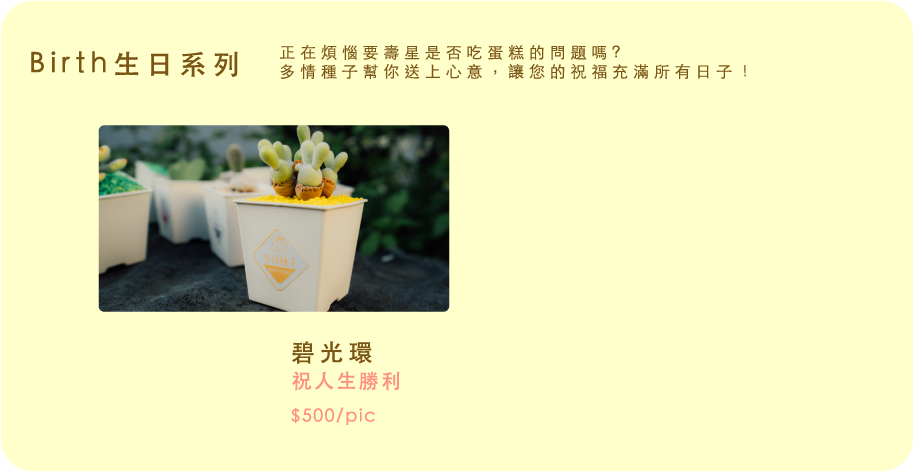
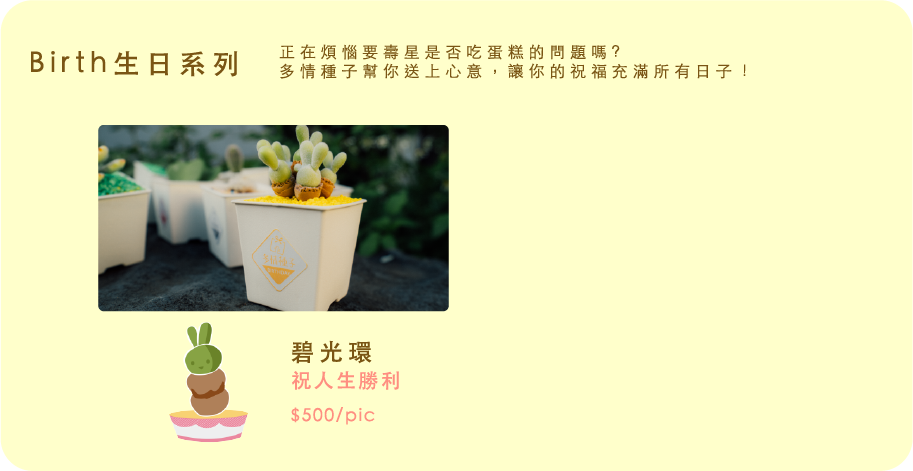
修改商品介紹錯誤頁及互動區

diff --git a/index.html b/index.html
@@ -381,7 +381,7 @@ _loading();
                  <img id="a5" src="images/a/a5.png">
                  <img id="a6" src="images/a/a6.png">
                  <img id="a7" src="images/a/a7.png">
-                 <div class="twice">CLICK TWICE</div>
+                 <div class="twice">將植物點擊兩下<br>CLICK TWICE</div>
               </div>
             </div>
             <div class="right">
@@ -460,10 +460,10 @@ _loading();
           <div class="product_img_open">
               <div class="close"><img src="images/close.png" onclick="close_modal()"></div>
               <img id="c1" class="lazy" data-src="images/s/1.png">
-              <img id="c2" class="lazy" data-src="images/s/2.png">
-              <img id="c3" class="lazy" data-src="images/s/3.png">
+              <img id="c2" class="lazy" data-src="images/s/3.png">
+              <img id="c3" class="lazy" data-src="images/s/5.png">
               <img id="c4" class="lazy" data-src="images/s/4.png">
-              <img id="c5" class="lazy" data-src="images/s/5.png">
+              <img id="c5" class="lazy" data-src="images/s/2.png">
               <img id="c6" class="lazy" data-src="images/s/6.png">
           </div>
        </div>

diff --git a/css/main.css b/css/main.css
@@ -462,11 +462,13 @@ body.init .hamburgers{
 .twice{
   position: absolute;
    bottom: 1vh;
-  left: 0vh;
+  left: -4vh;
   font-size: 1.7vh;
   font-weight: bold;
-  letter-spacing: 1px;
+  letter-spacing: 3px;
+  line-height: 20px;
   font-family: Microsoft JhengHei;
+  color:sienna
 }
 #a1{
   width: 19vh;
